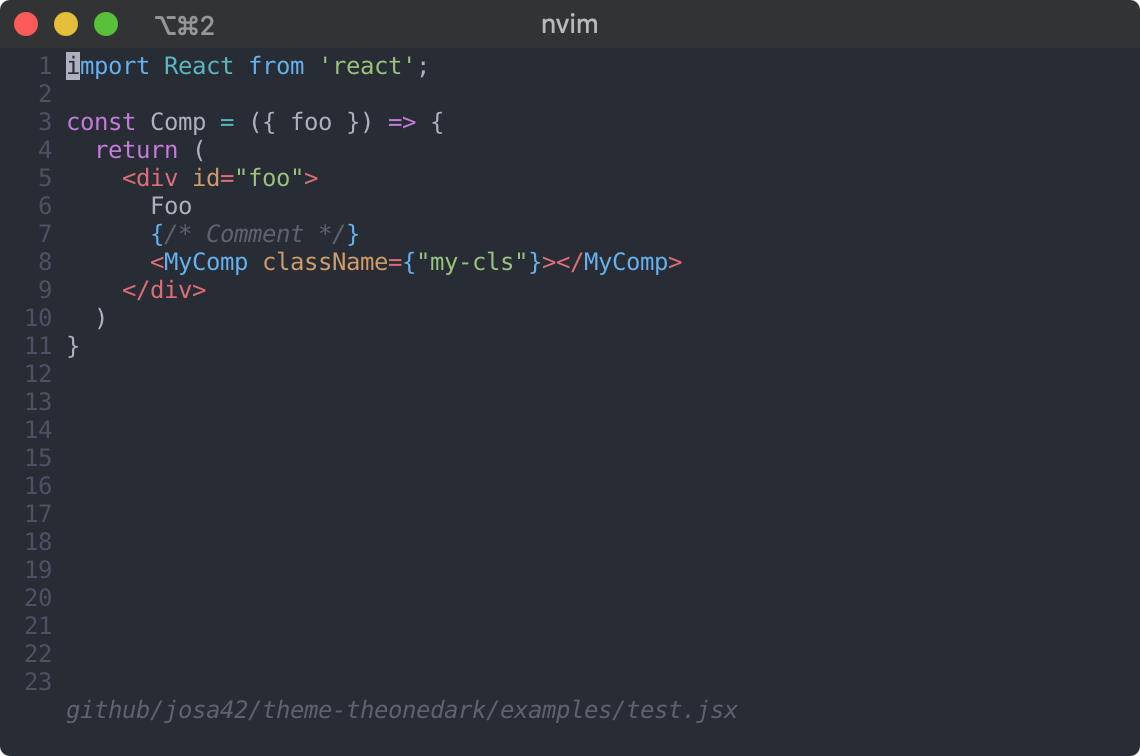
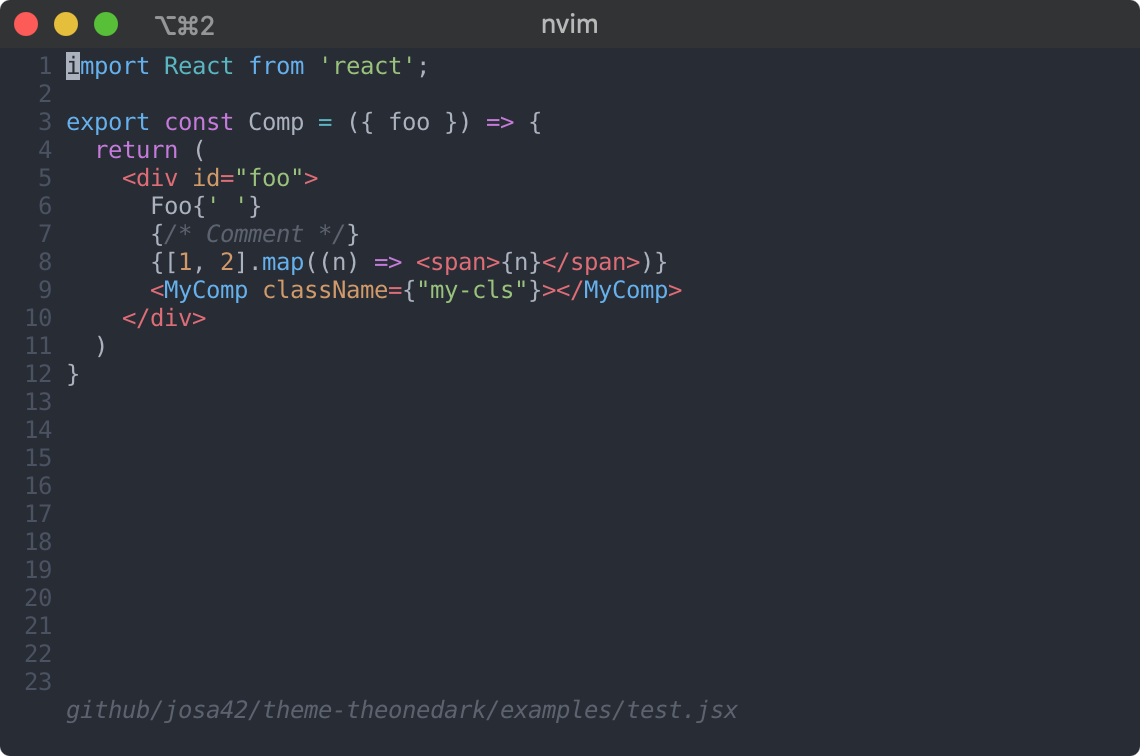
Update javascript syntax

diff --git a/examples/test.jsx b/examples/test.jsx
@@ -1,10 +1,11 @@
 import React from 'react';
 
-const Comp = ({ foo }) => {
+export const Comp = ({ foo }) => {
   return (
     <div id="foo">
-      Foo
+      Foo{' '}
       {/* Comment */}
+      {[1, 2].map((n) => <span>{n}</span>)}
       <MyComp className={"my-cls"}></MyComp>
     </div>
   )

diff --git a/examples/test.js b/examples/test.js
@@ -51,7 +51,7 @@ const Comp = ({ foo }) => {
 class Foo extends Bar {
   static foo() {}
 
-  private bar()
+  bar()
 
   foo() {
     if (this.bar == 'bar') {
